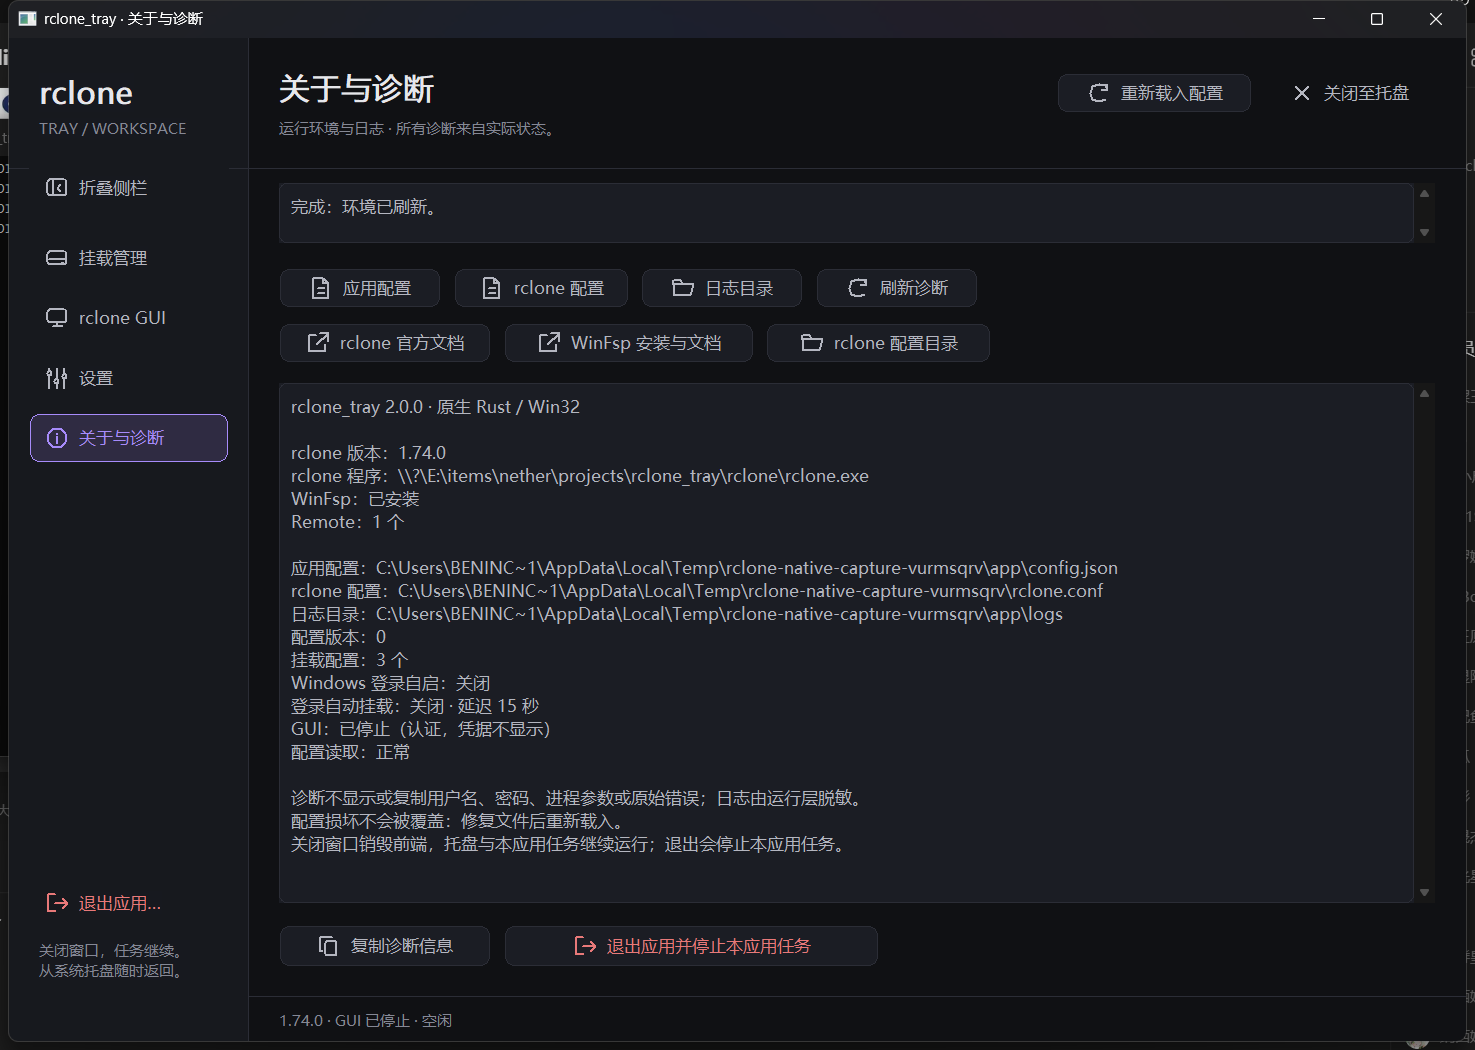
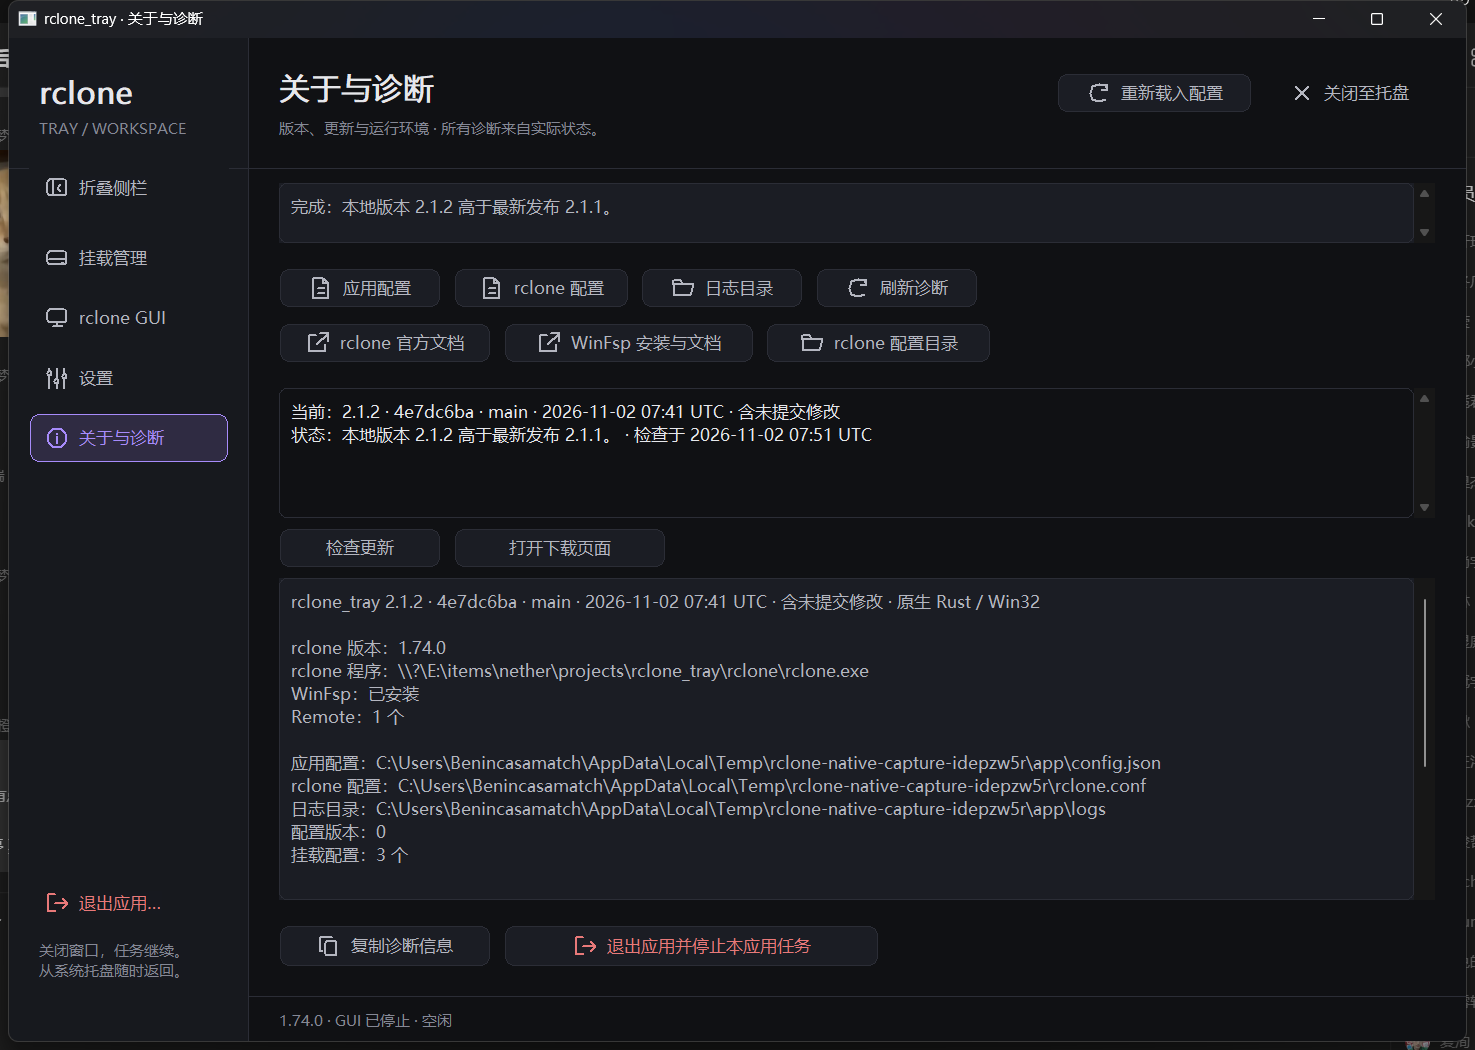
docs: 记录 2.1.2 图标、安装包与更新气泡验收
- 新增 EXE 图标资源与安装包/气泡开发日志
- 验收记录补充文件属性、安装/升级/卸载、AppMutex 与气泡投递证据
- 刷新 native-stencil 截图与检查结果；README 补充 windres、气泡点击与安装互斥体说明

diff --git a/devlog/2026-11-02-安装包与更新气泡.md b/devlog/2026-11-02-安装包与更新气泡.md
@@ -1,0 +1,35 @@
+# 安装包完善与更新气泡验收（2026-11-02）
+
+## 目标
+
+补齐 2.1.2 安装包的版本属性与运行中实例保护，让“发现新版本”气泡可点击并留下可核对证据，完成安装/升级/卸载与界面回归验收。
+
+## 实现
+
+- `assets/app.rc` + `build.rs`：资源脚本增加 `VERSIONINFO`，`build.rs` 用 `CARGO_PKG_VERSION` 替换 `@VERSION_COMMA@` / `@VERSION_STRING@` 占位符后交给 `windres`。EXE 现在带 `FileVersion 2.1.2`、`ProductVersion 2.1.2`、`CompanyName`、`ProductName`、`LegalCopyright`；安装包属性另由 Inno `VersionInfo*` 提供。
+- `tools/installer.iss`：增加 `AppMutex=Local\rclone_tray_single_instance`，运行中的应用持有该互斥体时安装程序要求先关闭实例；补 `AppCopyright`、`VersionInfoCompany`、`VersionInfoCopyright`。
+- `src/host.rs`：托盘回调新增 `NIN_BALLOONUSERCLICK`，点击“发现新版本”气泡进入“关于与诊断”，与气泡文案指向的下载入口一致。
+- `src/ui.rs`：新建窗口时按目标页设置标题（`rclone_tray · {页名}`）。此前从托盘“关于与诊断”或气泡点击直接创建窗口时标题只有 `rclone_tray`，只有再次导航才更新。
+
+## 验证
+
+- `.\tools\build.ps1 -Test`：36 项单元测试通过、1 项忽略；产物 `dist\rclone_tray.exe` 2304512 bytes、`dist\rclone_tray_setup.exe` 21567618 bytes（2.1.2，提交 `4e7dc6ba`，含未提交修改；SHA-256 见 `dist\build-manifest.json`）。
+- 文件属性：EXE `FileVersion=ProductVersion=2.1.2`、`FileDescription=rclone_tray`、`CompanyName=Benincasamatch`；安装程序 `VersionInfo.FileVersion=2.1.2.0`。
+- 安装流程（隔离副本：仅把 `AppId`、`AppMutex`、`DefaultDirName`、`OutputDir` 改到测试值，其余与发布脚本一致，避免覆盖本机 2.1.1 安装）：
+  - `/VERYSILENT` 安装退出码 0；落地 `rclone_tray.exe`、`rclone\rclone.exe`、`build-manifest.json`、SHA-256 文件、`LICENSE`、`unins000.*`；HKCU 卸载项 `DisplayName=rclone_tray 2.1.2`。
+  - 再次运行同一安装程序为覆盖升级，退出码 0。
+  - 卸载 `/VERYSILENT` 退出码 0，安装目录、卸载项、开始菜单项全部移除；`%APPDATA%\rclone_tray\config.json` 的 SHA-256 前后一致（`446a9d56…178391`），用户配置保留。
+  - `AppMutex` 实测：另编一份 `AppMutex` 指向真实互斥体的安装副本，在 2.1.1 运行时执行静默安装，退出码 1，日志为 `Setup has detected that rclone_tray is currently running.`，未创建目标目录。
+- 新版本气泡：
+  - 用同一份源码把版本号降到 2.1.0，在隔离目录构建后运行（当前 GitHub 最新为 2.1.1）。真实 WinHTTP 检查返回 `发现新版本 2.1.1。`，About 页状态文本可读；`Shell_NotifyIconW(NIM_MODIFY, NIF_INFO)` 返回 1。
+  - Windows 通知库新增记录：`rclone_tray · 发现新版本`，正文 `发现新版本 2.1.1（当前 2.1.0）。 在“关于与诊断”可一键打开下载链接。`，处理程序 `NotifyIconGeneratedAumid_…`。同次隔离运行另有预期的 `未找到 rclone` 错误气泡记录。
+  - 点击链路：向宿主窗口投递 `WM_TRAY_EVENT` + `NIN_BALLOONUSERCLICK`，实际创建前端窗口，标题为 `rclone_tray · 关于与诊断`，控件 511（检查更新）可见。
+  - `tools\capture_ui.py --exe dist\rclone_tray.exe`：`status=pass`，15 张截图、50 项检查全部通过（`docs/evidence/native-stencil-checks.json`）。
+- 已安装 2.1.1 的机器上，真实安装程序未执行（避免中断用户正在运行的挂载），测试均使用隔离副本。
+
+## 限制与后续
+
+- 气泡横幅的屏幕截图未获得：本轮在 2–6 秒窗口抓取不到横幅，但 Shell 接受返回值与系统通知记录均证明气泡已投递。通知横幅是否显示受系统专注模式/通知设置影响，未在本环境复现可视横幅。
+- 点击验证使用投递托盘消息，不是物理点击；`NIN_BALLOONUSERCLICK` 的包装与分发路径与真实点击一致。
+- 安装/升级/卸载测试用隔离副本完成（`AppId` 等改到测试值），未在发布用安装程序上覆盖本机 2.1.1。
+- Inno 在 `DisableProgramGroupPage=yes` 时忽略命令行 `/GROUP`；测试安装曾写入现有开始菜单分组，测试后已把两个快捷方式目标指回 `E:\tools\rclone_tray`。

diff --git a/docs/验收记录.md b/docs/验收记录.md
@@ -213,3 +213,42 @@
 
 - 未在普通用户会话执行安装包全流程（安装/覆盖升级/卸载），沿用 2.1.0 记录中的 HKCU 写入限制。
 - 未验证“发现新版本”托盘气泡：本机已是最高版本，需等待下一次发布。
+
+## 2.1.2 构建验收（2026-11-02）
+
+对象：`dist\rclone_tray.exe` 2304512 bytes，SHA-256 `5235ea7c…849f0848`；`dist\rclone_tray_setup.exe` 21567618 bytes，SHA-256 `dd38528c…d7b628d`（2.1.2，提交 `4e7dc6ba`，含未提交修改；以 `dist\build-manifest.json` 为准）。
+
+### 文件图标与版本属性
+
+- 修复前节表核对：2.1.1 的 `dist` 与已安装 EXE 均无 `.rsrc`，Shell 无法读取文件图标。
+- 修复后 `dist\rclone_tray.exe` 含 `.rsrc`；`RT_GROUP_ICON`(1) 列出 16/20/24/32/40/48/64/128/256 共 9 个 32bpp 图像。
+- `ExtractAssociatedIcon` 取出的图标渲染为应用图案（蓝底白云），非系统通用图标。
+- 文件属性：EXE `FileVersion`/`ProductVersion` 为 `2.1.2`，`FileDescription`/`ProductName` 为 `rclone_tray`，`CompanyName` 为 `Benincasamatch`，`LegalCopyright` 为 `MIT License`；安装程序 `VersionInfo.FileVersion` 为 `2.1.2.0`。
+- 隔离数据目录运行新 EXE：进程存活，`Shell_NotifyIconGetRect` 返回 `0x0` 且矩形非空，托盘图标不受影响。
+
+### 安装、覆盖升级与卸载
+
+测试用隔离副本仅替换 `AppId`、`AppMutex`、`DefaultDirName`、`OutputDir`，其余指令与发布脚本一致，避免覆盖本机 2.1.1 安装。
+
+- 静默安装退出码 0；落地 EXE、`rclone\rclone.exe`、`build-manifest.json`、SHA-256 文件、`LICENSE`、`unins000.*`；HKCU 卸载项 `DisplayName=rclone_tray 2.1.2`。
+- 再次运行同一安装程序：覆盖升级退出码 0，版本仍为 2.1.2。
+- 静默卸载退出码 0：安装目录、卸载项、开始菜单项全部移除；`%APPDATA%\rclone_tray\config.json` 的 SHA-256 前后一致（`446a9d56…178391`），用户配置保留。
+- `AppMutex` 实测：另一份 `AppMutex` 指向真实互斥体的安装副本，在 2.1.1 运行时静默执行，退出码 1，日志为 `Setup has detected that rclone_tray is currently running.`，未创建目标目录。
+
+### 新版本气泡
+
+- 用同一份源码把版本号降到 2.1.0 并在隔离目录构建，对真实 GitHub（最新 2.1.1）运行：About 页状态为 `发现新版本 2.1.1。`；`Shell_NotifyIconW(NIM_MODIFY, NIF_INFO)` 返回 1。
+- Windows 通知库记录到 `rclone_tray · 发现新版本`，正文 `发现新版本 2.1.1（当前 2.1.0）。在“关于与诊断”可一键打开下载链接。`，处理程序 `NotifyIconGeneratedAumid_…`；同次隔离运行另有预期的 `未找到 rclone` 错误气泡记录。
+- 点击链路：向宿主窗口投递 `WM_TRAY_EVENT` + `NIN_BALLOONUSERCLICK`，创建真实前端窗口，标题 `rclone_tray · 关于与诊断`，控件 511（检查更新）可见。
+- 屏幕抓取未截到横幅（2–6 秒窗口内无可视横幅），不宣称目视验证；投递事实以 Shell 返回值与系统通知记录为准。
+
+### 界面回归
+
+- `tools\capture_ui.py --exe dist\rclone_tray.exe`：`status=pass`，15 张截图、50 项检查全部通过；`About` 页读到 `完成：本地版本 2.1.2 高于最新发布 2.1.1。`。
+
+### 限制
+
+- 未在发布用安装程序上覆盖本机 2.1.1（会关闭用户正在运行的应用与挂载）；安装流程使用隔离副本。
+- 气泡点击为投递托盘消息，不是物理点击；横幅可视性受系统通知/专注设置影响，未复现。
+- Windows 图标缓存未刷新的场景未覆盖，必要时重启资源管理器。
+- Inno 在 `DisableProgramGroupPage=yes` 时忽略命令行 `/GROUP`；测试安装曾写入现有开始菜单分组，测试后已把两个快捷方式指回 `E:\tools\rclone_tray`。

diff --git a/README.md b/README.md
@@ -49,19 +49,21 @@ rclone 可执行文件优先级：明确设置 → 打包 EXE 旁的 `rclone.exe
 ## 版本、更新与安装
 
 - 版本号为语义化版本（`x.y.z`），由 `Cargo.toml` 决定；构建时嵌入 git commit、分支、构建时间与未提交修改标记，显示在“关于与诊断”和复制出的诊断信息中。
-- 应用启动后在后台请求 GitHub Releases，忽略草稿与预发布，按语义化版本比较。发现更高版本时发送一次托盘气泡提醒；“关于与诊断”显示当前版本、最新版本、发布时间、更新说明和资产大小。
+- 应用启动后在后台请求 GitHub Releases，忽略草稿与预发布，按语义化版本比较。发现更高版本时发送一次托盘气泡提醒，点击气泡进入“关于与诊断”；“关于与诊断”显示当前版本、最新版本、发布时间、更新说明和资产大小。
 - “检查更新”可手动重试；“打开下载页面”优先打开发布中的 `rclone_tray_setup.exe`，没有安装包时打开该版本发布页。更新模块只打开链接，不下载、不替换正在运行的 exe。
 - 离线或 API 限流只记录在“关于与诊断”，启动检查不会弹错误气泡；手动检查会显示具体原因。
 
 ## 安装与升级
 
 1. 运行 `dist\rclone_tray_setup.exe`，按向导安装；已安装时同一安装程序覆盖升级，保留 `%APPDATA%\rclone_tray` 中的配置与日志。
-2. 托盘退出旧实例后再运行安装程序；安装程序会请求关闭占用文件的实例。
+2. 托盘退出旧实例后再运行安装程序；安装程序通过应用互斥体检测运行中的实例，存在时要求先关闭再继续（静默安装在同样条件下直接退出，返回码 1）。
 3. 卸载通过“设置 → 应用”或开始菜单卸载项完成，不删除用户配置。
 
 ## 源码运行
 
 使用 Rust Windows GNU 工具链；构建脚本优先使用 `E:\tools\rust`，否则从 PATH 查找 cargo。项目内需要官方 `rclone\rclone.exe`。
+
+构建期用 binutils 的 `windres` 把 `assets/app.rc` 编译进 EXE，为资源管理器、开始菜单和快捷方式提供文件图标；找不到时构建会报错，可用 `WINDRES` 环境变量指定。托盘与窗口图标仍由同一份 `assets/icon.ico` 在运行时创建。
 
 ```powershell
 .\tools\build.ps1       # 构建 exe 与安装程序；运行中的 EXE 须先从托盘退出

diff --git a/devlog/2026-11-02-EXE图标资源.md b/devlog/2026-11-02-EXE图标资源.md
@@ -1,0 +1,31 @@
+# EXE 图标资源缺失修复（2026-11-02）
+
+## 现象
+
+程序的文件图标不见了：资源管理器、开始菜单、桌面快捷方式中的 `rclone_tray.exe` 显示为通用空白图标。托盘图标与窗口图标正常。
+
+## 根因
+
+- `build.rs` 只读取 git 信息并写入 `RT_BUILD_*`，从未编译 `assets/icon.ico`，链接产物没有任何资源节。
+- 用 PE 节表核对 `dist\rclone_tray.exe` 与已安装的 2.1.1：均只有 `.text/.data/.rdata/.pdata/.xdata/.bss/.idata/.tls/.reloc`，**没有 `.rsrc`**。
+- 托盘与窗口图标走 `src/host.rs::load_icon`，用 `include_bytes!` 在运行时 `CreateIconFromResourceEx`，所以不受影响；缺失的只有 Shell 从 PE 资源读取的文件图标。
+- Windows 的 `ExtractAssociatedIcon` 对无资源 EXE 仍会返回系统通用图标，因此旧探测“返回 32×32”不能证明图标存在。
+
+## 修复
+
+- 新增 `assets/app.rc`：`1 ICON "assets/icon.ico"`。
+- `build.rs`：Windows 目标下定位 `windres`（`WINDRES` 环境变量 → `PATH` 中的 `x86_64-w64-mingw32-windres.exe`/`windres.exe` → 链接器同目录），把 `assets/app.rc` 编译为 COFF 资源对象，`cargo:rustc-link-arg-bins` 链接进主程序；非 GNU 目标只提示不中断。
+- 找不到 `windres` 时直接失败并给出可执行提示，不再静默产出无图标 EXE。
+- 版本提升到 2.1.2，`Cargo.lock` 同步。
+
+## 验证
+
+- `.\tools\build.ps1 -Test` 通过（测试先于构建，失败会中止），产出 `dist\rclone_tray.exe` 2303488 bytes、`dist\rclone_tray_setup.exe`。
+- 新 EXE 节表包含 `.rsrc`；资源目录含 `RT_GROUP_ICON`(1) 与 9 个 `RT_ICON`，尺寸 16/20/24/32/40/48/64/128/256，全部 32bpp。
+- `[System.Drawing.Icon]::ExtractAssociatedIcon` 取出的图标渲染为蓝底白云图案（应用图标），非通用图标。
+- 隔离数据目录（`RCLONE_TRAY_DATA_DIR`）运行新 EXE：进程存活，`Shell_NotifyIconGetRect` 返回 `hr=0x0`，托盘图标矩形非空，说明运行时图标链路未受影响。
+
+## 限制
+
+- 未覆盖 Windows 图标缓存不刷新的情况；覆盖安装后若仍显示旧图标，需重启资源管理器。
+- 安装包本身的图标由 Inno Setup 的 `SetupIconFile` 提供，与本次 EXE 资源独立。
